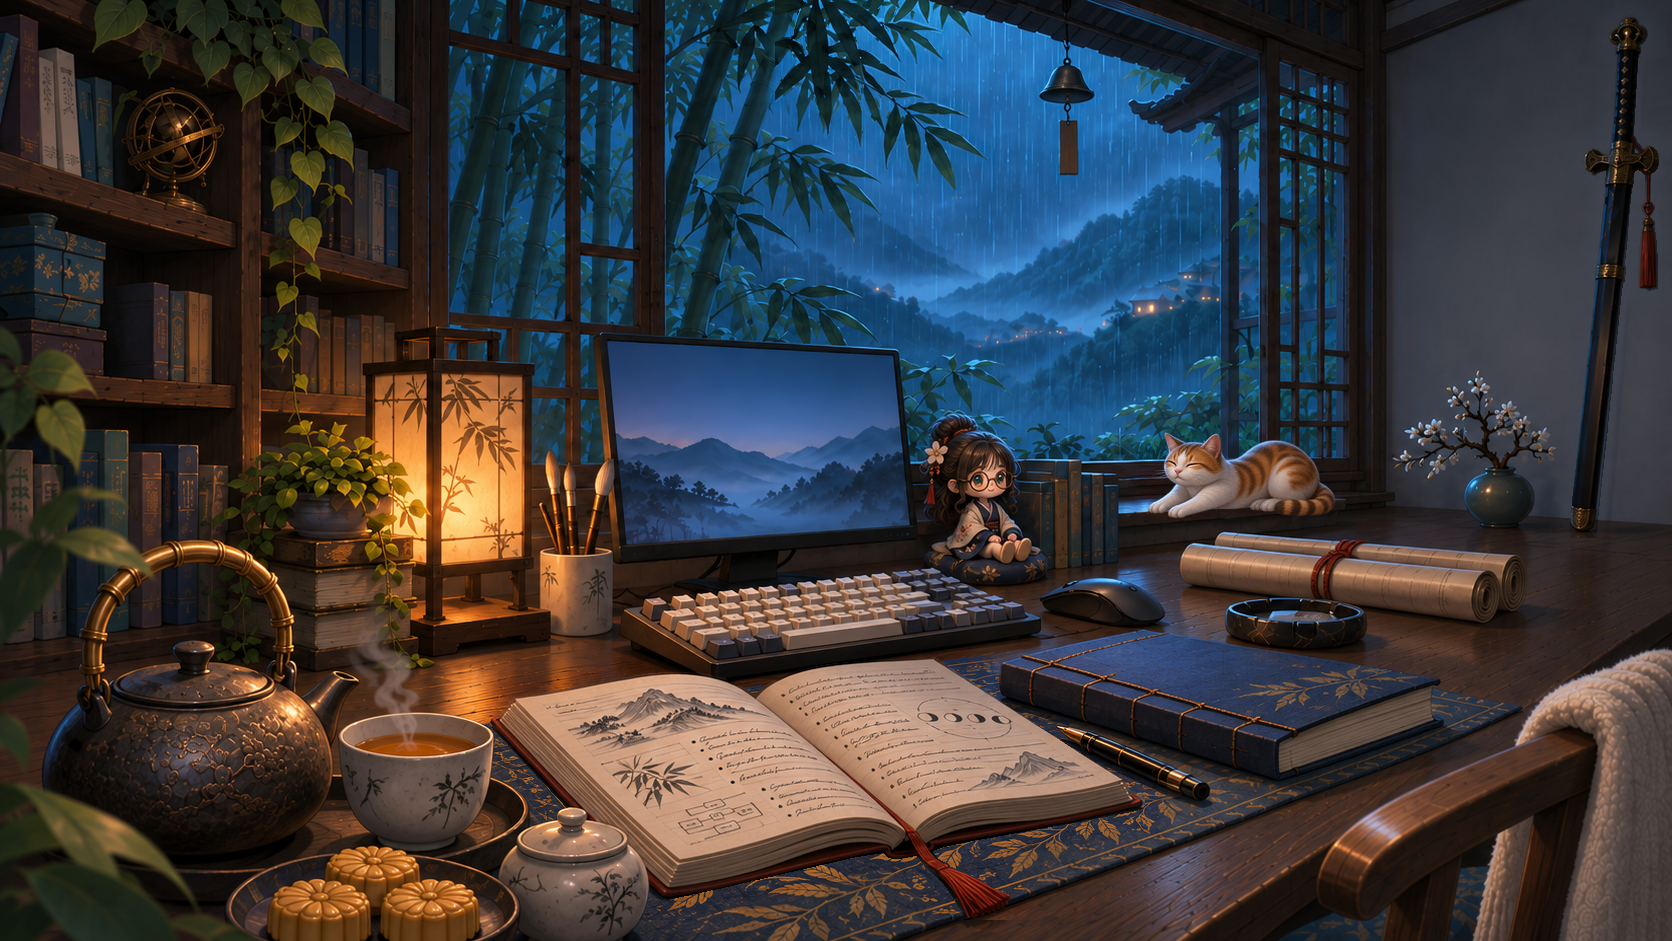
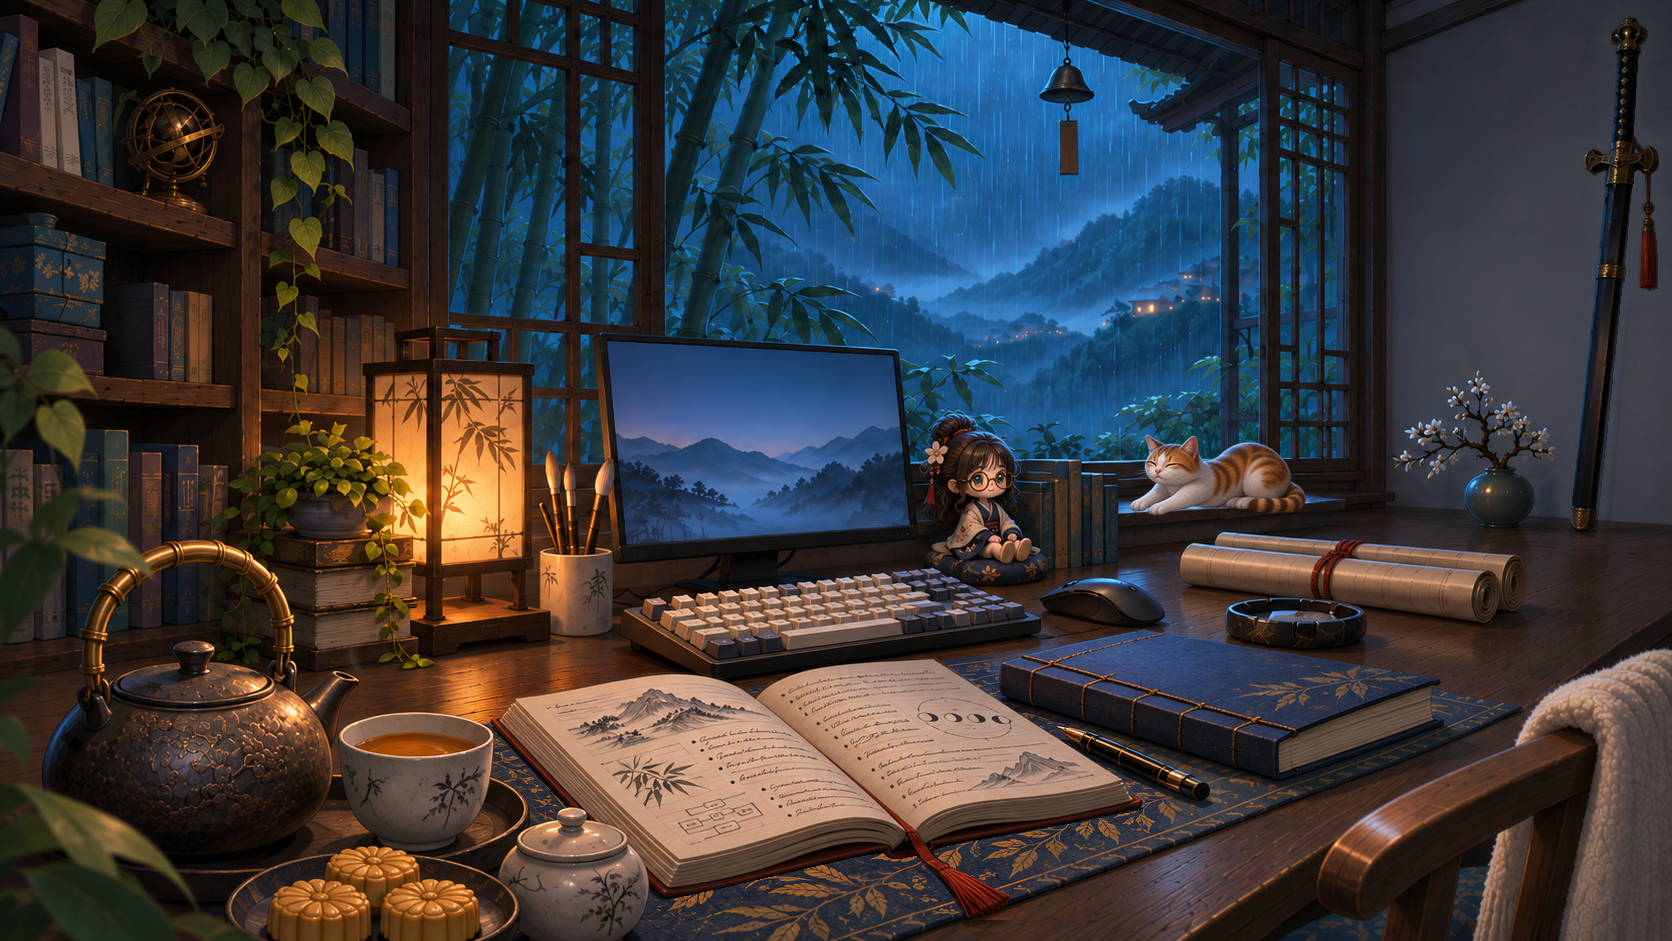
初版

Changed region(s): [[0.6531, 0.4623, 0.8086, 0.5547], [0.2177, 0.6164, 0.2488, 0.8013]]

diff --git a/art-work/资源拆分记录.md b/art-work/资源拆分记录.md
@@ -4,27 +4,36 @@
 
 | 资源 | 原画像素范围（左、上、宽、高） | 用途 |
 | --- | --- | --- |
-| `public/art/room-clean.png` | 整幅 1672 × 941 | 剑、摊开书、猫、风铃和一簇前景竹叶移开后的底图 |
+| `public/art/room-clean.png` | 整幅 1672 × 941 | 剑、摊开书、猫、风铃、前景竹叶和杯上固定热气移开后的底图 |
 | `public/art/sword.png` | 1490, 0, 182, 555 | 可独立移动的原画佩剑 |
 | `public/art/sword-sheath.png` | 1490, 0, 182, 555 | 佩剑拔出后留在墙边的原画剑鞘 |
 | `public/art/sword-drawn.png` | 1490, 0, 182, 555 | 原画剑柄与剑穗加新增刃面的出鞘状态 |
 | `public/art/book.png` | 420, 615, 800, 305 | 固定在桌面原位的摊开书；悬停时仅轻微响应 |
 | `public/art/avatar-blink.png` | 895, 395, 170, 195 | 仅眼部有像素的闭眼状态 |
 | `public/art/cat.png` | 1090, 385, 310, 185 | 取自原画的睡猫透明层 |
+| `public/art/cat-ears.png` | 1090, 385, 310, 185 | 睡猫耳朵轻动的第一帧 |
+| `public/art/cat-awake.png` | 1090, 385, 310, 185 | 耳朵竖起、半睁眼的苏醒姿态 |
+| `public/art/cat-reach.png` | 1090, 385, 310, 185 | 前爪刚伸出时的过渡姿态 |
 | `public/art/cat-mid.png` | 1090, 385, 310, 185 | 猫刚醒、前爪伸出一半的过渡姿态 |
+| `public/art/cat-arch.png` | 1090, 385, 310, 185 | 拱背进入完全伸展前的过渡姿态 |
 | `public/art/cat-stretch.png` | 1090, 385, 310, 185 | 猫伸懒腰的透明状态 |
+| `public/art/cat-yawn.png` | 1090, 385, 310, 185 | 伸展后抬头打哈欠的姿态 |
+| `public/art/cat-relax.png` | 1090, 385, 310, 185 | 打完哈欠后收回前爪的姿态 |
+| `public/art/cat-groom.png` | 1090, 385, 310, 185 | 回到睡姿前舔爪的姿态 |
+| `public/art/cat-settle.png` | 1090, 385, 310, 185 | 舔爪后低头趴下的姿态 |
 | `public/art/chime.png` | 1000, 0, 170, 210 | 取自原画的风铃透明层，原底图风铃已擦除 |
 | `public/art/bamboo.png` | 680, 0, 315, 245 | 取自原画的窗前竹叶透明层，绕顶部枝点轻摇 |
 | `public/art/pastry-bite.png` | 220, 805, 320, 136 | 仅后排糕点缺口附近有像素的覆盖层 |
 | `public/art/window-mask.png` | 1672 × 941，远景约 x973–1238、y190–397 | 限制窗外远景视差，边缘柔化 12px |
 | `public/art/rain-mask.png` | 1672 × 941，中央窗景约 x621–1230、y79–392 | 限制动态雨滴留在窗洞，边缘柔化 5px |
 | `previews/room-reassembled.png` | 整幅 1672 × 941 | 静态叠回对照图，不参与网站加载 |
+| `previews/cat-motion-contact-sheet.png` | 11 格，每格 310 × 185 | 按播放顺序检查猫尾、脚掌和窗台接触线 |
 | `previews/window-mask-preview.png` | 整幅 1672 × 941 | 将遮罩叠到原画后的边界检查图 |
-| `previews/cat-mid-preview.png`、`previews/cat-stretch-preview.png`、`previews/sword-draw-preview.png`、`previews/pastry-bite-preview.png` | 整幅 1672 × 941 | 猫两帧、佩剑短距离出鞘和糕点状态的叠回检查图 |
+| `previews/cat-*-preview.png`、`previews/sword-draw-preview.png`、`previews/pastry-bite-preview.png` | 整幅 1672 × 941 | 猫各姿态、佩剑短距离出鞘和糕点状态的叠回检查图 |
 
-`generated/` 中保留了 imagegen 的十五张原始输出。`scripts/build-art-assets.mjs` 用生成图的透明度提取轮廓，再从 `整体画面.png` 采样剑、书、睡猫、风铃与竹叶的实际像素，最后以生成的空墙、桌垫、窗台和雨夜天空补全底图。剑鞘和剑柄取原画像素；原画中不可见的钢刃参考生成图。眼部图只取生成闭眼图的两个镜片内区域，糕点状态只覆盖缺口附近。修改原画后可在 `sites/jianghu-room` 中运行 `node scripts/build-art-assets.mjs` 重新导出。
+`generated/` 中保留了 imagegen 的二十四张原始输出。`scripts/build-art-assets.mjs` 用生成图的透明度提取轮廓，再从 `整体画面.png` 采样剑、书、睡猫、风铃与竹叶的实际像素，最后以生成的空墙、桌垫、窗台和雨夜天空补全底图。杯口上方原画自带的固定热气由 `steam-clean-generated.png` 局部擦除；新的热气由 Canvas 绘制。剑鞘和剑柄取原画像素；原画中不可见的钢刃参考生成图。眼部图只取生成闭眼图的两个镜片内区域，糕点状态只覆盖缺口附近。猫动作帧以猫尾和前爪落点对齐到原画窗台。修改原画后可在 `sites/jianghu-room` 中运行 `node scripts/build-art-assets.mjs` 重新导出。
 
-当前网页已按上述像素坐标叠合底图与独立物件。窗外远景遮罩使用 `window-mask.svg` 描出的保守范围，再输出柔边 PNG；它避开窗框、风铃和桌面，只让村落与远山发生约 3px 的缓慢位移。动态雨滴另用 `rain-mask.svg` 限定在中央窗洞。点击佩剑时，剑沿剑鞘方向短距离抽出，剑鞘遮住未出鞘的刃面；点击书本时镜头朝桌面推进，书本始终贴在桌上；点击猫播放睡姿→过渡姿态→伸懒腰→过渡姿态→睡姿；点击风铃快速摇动并切换音乐；点击糕点切换缺口。竹叶、风铃、茶气和灯笼均有低幅度环境动画。悬停或键盘聚焦时，独立物件轻微放大，底图中的屏幕、人物、茶壶和糕点则以局部镜头微推进反馈。主要转场可跳过，减少动态效果设置下关闭持续环境动效。重组图与原画存在局部阴影、窗台、雨夜天空和桌垫纹样差异，画面构图、物件原位与色调保持一致。
+当前网页已按上述像素坐标叠合底图与独立物件。窗外远景遮罩使用 `window-mask.svg` 描出的保守范围，再输出柔边 PNG；它避开窗框、风铃和桌面，只让村落与远山发生约 3px 的缓慢位移。动态雨滴另用 `rain-mask.svg` 限定在中央窗洞，本轮通过缩小雨滴重复单元增加密度。点击佩剑时，剑沿剑鞘方向短距离抽出，剑鞘遮住未出鞘的刃面；点击书本时镜头朝桌面推进，书本始终贴在桌上；书本悬停只提亮，不缩放。点击猫播放睡姿→耳动→苏醒→伸爪→半伸展→拱背→完全伸展→哈欠→收爪→舔爪→趴下→睡姿，帧间做短暂透明度过渡；点击风铃快速摇动并切换音乐；点击糕点切换缺口。茶杯热气由五道细烟缕持续从杯口缓升并淡出，减少动态效果设置下不绘制。热点无黄色提示点及鼠标悬停框，键盘聚焦保留冷白色可见轮廓。主要转场可跳过，减少动态效果设置下关闭持续环境动效。重组图与原画存在局部阴影、窗台、雨夜天空和桌垫纹样差异，画面构图、物件原位与色调保持一致。
 
 ## 生成提示词摘要
 
@@ -43,5 +52,14 @@
 - `bamboo-clean-generated.png`：只移除窗前上方一簇竹叶，补蓝色雨夜天空，保留竹竿与其他枝叶。
 - `bamboo-cutout-generated.png`：提取上方竹叶轮廓作为透明选区；最终竹叶层使用原画像素。
 - `cat-mid-generated.png`：以原画睡猫与伸懒腰姿态为参照，生成同花纹、同透视的半伸展过渡帧，透明背景。
+- `cat-awake-generated.png`：以原画睡猫和半伸展姿态为参照，生成耳朵竖起、半睁眼但身体仍趴伏的苏醒帧，透明背景。
+- `cat-yawn-generated.png`：以原画睡猫、半伸展及伸展姿态为参照，生成伸展后抬头小幅打哈欠的帧，透明背景。
+- `cat-groom-generated.png`：以原画睡猫和半伸展姿态为参照，生成回落后抬起前爪轻舔的帧，透明背景。
+- `steam-clean-generated.png`：以茶杯区域原画为输入，只移除固定的灰白热气并补全木桌、杯口与茶面，保留其余物件。
+- `cat-ears-generated.png`：以原画睡姿和苏醒姿态为参照，生成眼未睁开、耳朵先动的细小过渡帧，透明背景。
+- `cat-reach-generated.png`：以苏醒和半伸展姿态为参照，生成前爪先伸出一小段的过渡帧，透明背景。
+- `cat-arch-generated.png`：以半伸展和完全伸展姿态为参照，生成拱背、后躯逐渐抬起的过渡帧，透明背景。
+- `cat-relax-generated.png`：以哈欠和舔爪姿态为参照，生成闭嘴、收回前爪的过渡帧，透明背景。
+- `cat-settle-generated.png`：以舔爪和原画睡姿为参照，生成低头、把前爪放回窗台的过渡帧，透明背景。
 
-以上十五项均使用内置 `image_gen__imagegen` 图片编辑模式，输入分别为 `crops/` 下的原画裁片；`cat-mid-generated.png` 另参考现有伸懒腰图。成品文件路径已归档在 `generated/`。
+以上二十四项均使用内置 `image_gen__imagegen` 图片编辑模式，输入分别为 `crops/` 下的原画裁片；猫动作帧另参考现有相邻姿态图。成品文件路径已归档在 `generated/`。

diff --git a/网站设计文档.md b/网站设计文档.md
@@ -25,8 +25,8 @@
 | 画面物件 | 对应内容 | 交互构想 | 优先级 |
 | --- | --- | --- | --- |
 | 电脑屏幕 | 项目作品集 | 点击后镜头推进屏幕，进入项目界面 | P0 |
-| 桌上摊开的书本 | 博客文章 | 点击后书本放大，进入文章阅读界面 | P0 |
-| 墙上佩剑 | 技术栈、技能树 | 拔剑动作引出「武学谱」式技能界面 | P0 |
+| 桌上摊开的书本 | 博客文章 | 点击后整幅画面向书本推进，进入文章阅读界面 | P0 |
+| 墙上佩剑 | 技术栈、技能树 | 点击后整幅画面向佩剑推进，进入「武学谱」式技能界面 | P0 |
 | 古风小人 | 关于我 | 平时眨眼；点击后以几个固定问题展开对话 | P0 |
 | 茶壶 | 留言与联系方式 | 点击后进入「以茶会友」界面，查看联系渠道或留言 | P0 |
 | 睡猫 | 隐藏彩蛋 | 缓慢呼吸；点击后伸懒腰并回应 | P1 |
@@ -58,7 +58,7 @@
 
 | 层 | 内容 | 制作与运行方式 |
 | --- | --- | --- |
-| L0 远景 | 夜空、远山、村落灯火、远处竹林 | 拆分为少量景深片；仅在窗洞范围内轻微视差 |
+| L0 远景 | 夜空、远山、村落灯火、远处竹林 | 固定不随鼠标移动，透过窗洞显示 |
 | L1 房间 | 墙壁、书架、窗框、桌面、固定摆设 | 干净底图；窗框和桌沿在需要时拆为前景遮挡片 |
 | L2 物件 | 屏幕、书、佩剑、人物、茶壶、猫、糕点、风铃 | 独立透明图层或原图叠加热点；按具体动作制作需要的状态图 |
 | L3 特效 | 窗外雨、灯光、茶汽、竹叶、局部光晕 | 按真实前后关系插入场景；雨在窗框后，茶汽在茶壶附近 |
@@ -70,16 +70,16 @@
 
 | 元素 | 动作 | 约束 |
 | --- | --- | --- |
-| 屏幕 | 镜头以屏幕为中心推进，再切入项目界面 | 转场可中断、可返回；窄屏避免放大到模糊 |
-| 书 | 书本放大并过渡到阅读界面 | 动作结束即可阅读；正文使用 HTML 排版 |
-| 剑 | 剑身从鞘或挂位抽出，展开武学谱 | 需要独立剑身与原位置补画；缩短转场以保持响应 |
+| 屏幕 | 整个画面向屏幕推进，再切入项目界面 | 屏幕本身不单独放大；转场可跳过、可返回 |
+| 书 | 整个画面向桌上书本推进，再进入阅读界面 | 书本保持贴在桌上；正文使用 HTML 排版 |
+| 剑 | 整个画面向墙上佩剑推进，再进入武学谱 | 剑不单独拔出或放大，避免脱离墙面 |
 | 古风小人 | 眨眼；点击后出现固定问题与回答 | 眨眼可用局部状态图；问答文字可用键盘操作 |
 | 猫 | 缓慢呼吸，点击后伸懒腰 | 伸懒腰需要额外姿态图或逐帧资源 |
 | 茶壶 | 茶汽或倒茶过渡到「以茶会友」 | 留言提交状态清晰，动画不阻碍填写 |
 | 糕点 | 点击后切换到缺一口的图 | 缺口需要专门绘制；二次点击或刷新可复原 |
 | 风铃 | 常态低幅度摇动；点击时快速摇动 | 点击第一次播放音乐，第二次关闭；手机端另有可见的音乐开关 |
 | 灯笼 | 暖光低幅度呼吸 | 关闭或减弱动效时仍保留清晰画面 |
-| 窗外 | 远山微视差、雨丝下落 | 雨只出现在窗洞内；视差位移应很小 |
+| 窗外与室内 | 窗外山景固定；室内随鼠标向反方向小幅移动 | 室内位移不超过数像素，雨只出现在窗洞内；点击猫、糕点、风铃不触发镜头推进 |
 
 支持系统的减少动态效果设置。背景音乐默认关闭，只在用户点击风铃或手机端音乐开关后播放。音乐为欢快、江湖、国风气质的原创合成纯音乐；再次点击立即停止。
 
@@ -98,9 +98,9 @@
 | `scene/full` | 原画与原型背景 | 保留未压缩母版，并导出网页优化版本 |
 | `scene/room-clean` | 移走动态物件后的房间 | 与原画严格对齐，补齐背后纹理和阴影 |
 | `scene/window-mask` | 限定雨与远景的显示区域 | 窗框、竹枝遮挡正确，边缘无漏光 |
-| `scene/landscape-*` | 山、村落、竹影等景深片 | 只拆确实需要视差的部分 |
-| `objects/book` | 博客入口的放大转场 | 透明背景，保留书本必要的接触阴影 |
-| `objects/sword-*` | 佩剑拔出与武学谱转场 | 剑身、鞘或挂位分层，补画剑背后的墙面 |
+| `scene/landscape-*` | 山、村落、竹影等窗外背景 | 固定在窗洞后，保持原画位置 |
+| `objects/book` | 博客入口的局部物件层 | 透明背景，保留书本接触阴影；镜头推进时不独立移动 |
+| `objects/sword-*` | 佩剑入口的局部物件层 | 保持挂墙姿态；镜头推进时不执行拔剑动作 |
 | `objects/avatar-eyes-*` | 人物眨眼 | 睁眼、闭眼状态与原图严格对齐 |
 | `objects/cat-*` | 呼吸与伸懒腰 | 睡姿和伸展姿态匹配同一落点 |
 | `objects/teapot` | 以茶会友入口 | 根据实际倒茶动作决定是否需要额外状态图 |

diff --git a/开发步骤规划.md b/开发步骤规划.md
@@ -8,7 +8,7 @@
 - 阶段 1：已实现整图热点原型、五个内容入口、手机端导航和可保存的留言表单，发布为仅站点所有者可访问的版本。当前项目、博客、技能和人物回答均醒目标注为待填内容。
 - 风铃更新：站名已确定为「山窗夜话」，字体采用仿宋与 Times New Roman；风铃常态轻摇，点击切换原创合成纯音乐并快速摇动。
 - 阶段 2：已按原画制作干净底图、佩剑与书本透明层、人物闭眼状态、独立剑鞘与出鞘剑，以及窗外远景的柔边遮罩；坐标和生成方法见 [`art-work/资源拆分记录.md`](art-work/资源拆分记录.md)。
-- 阶段 3：已接入窗外低幅度视差、书本放大、拔剑入口动画和茶壶光效；其他入口有镜头推进。转场可跳过，减少动态效果设置下直接进入内容。
+- 阶段 3：已改为窗外固定、室内随鼠标反向小幅位移；五个内容入口先由整幅画面推进到物件，再进入对应界面。猫、糕点、风铃不推进镜头。转场可跳过，减少动态效果设置下直接进入内容。
 - 阶段 4：已加入窗洞内动态雨滴、茶气、灯笼轻微光晕、睡猫呼吸与点击伸懒腰，以及糕点缺口切换；风铃音乐与摇动已在此前完成。
 - 下一步：进入阶段 5，填入真实个人内容，并完成浏览器端的热点、手机端、键盘、留言与动效验收。真实个人经历、项目、博客、技能和联系方式仍待提供。
 
@@ -45,10 +45,10 @@
 
 **任务**
 
-1. 根据已确定的动作列出需要补画的区域：佩剑拔出后的墙面、书本放大后的桌面，以及人物眨眼的局部状态。
+1. 根据已确定的动作列出需要补画的区域：室内视差露出的窗框和桌面边缘，以及人物眨眼的局部状态。
 2. 制作 `room-clean`：移除首批动态物件，补画遮住的桌面或窗景，修复阴影。
 3. 导出剑身与鞘或挂位、摊开的书、人物睁眼和闭眼状态；屏幕推进先使用整图缩放。
-4. 制作窗洞遮罩；若要实现视差，分别导出远山、村落灯火、近处竹影。
+4. 制作窗洞遮罩，固定山景与村落灯火，并为室内层预留反向位移空间。
 5. 为后续彩蛋准备睡猫与伸懒腰姿态、完整与缺口糕点；按倒茶动作决定茶壶是否需要额外状态图。
 6. 在网页里重组资源，与原画叠合逐处比对。
 
@@ -60,8 +60,8 @@
 
 **任务**
 
-1. 接入窗外远近景的低幅度视差，并保持窗框遮挡关系。
-2. 实现屏幕镜头推进到项目界面、书本放大到阅读界面、佩剑拔出并展开武学谱。
+1. 固定窗外远景，让室内层随鼠标向反方向小幅移动，并保持窗框遮挡关系。
+2. 五个内容入口统一由整幅画面聚焦推进到对应物件，推进结束后打开内容；物件本身不单独放大。
 3. 实现人物眨眼与固定问题对话；为茶壶加入进入「以茶会友」界面的过渡。
 4. 实现灯笼光晕和室内局部亮度变化；检查光效是否盖住热点。
 5. 为动画建立统一的时长、返回和跳过规则，支持减少动态效果设置。
